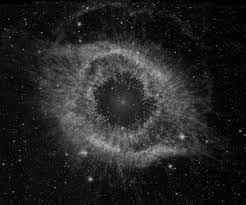
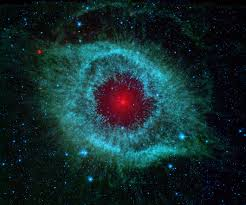
Add Image properties information to Picture Addbasic arithmetics to Picture Add trackball to modify images

diff --git a/src/picture.py b/src/picture.py
@@ -1,9 +1,11 @@
 import numpy as np
 import cv2
+import copy
 
 try:
-    # To read an image
-    img = cv2.imread('../Pictures/sample1.jpeg', 0)
+    # To read an image. The second argument if 0 makes the image Grayscale,
+    # not passing anything keeps it colored
+    img = cv2.imread('../Pictures/sample1.jpeg')
     # This creates a window where the image is later on displayed
     cv2.namedWindow('imagedisplay', cv2.WINDOW_NORMAL)
     cv2.imshow('imagedisplay', img)
@@ -13,5 +15,49 @@ try:
     cv2.destroyAllWindows()
     # Save the image to a new file
     cv2.imwrite('../Pictures/sample1.png', img)
-except Exception:
-    print("Oops something went wrong")
+    # Show Image properties
+    # a) Image Size
+    print("Image size is : " + str(img.size))
+    # b) Image shape (Row, Col, Col/Gray)
+    print("Image shape is :" + str(img.shape))
+    # c) Image Data Type
+    print("Image is encoded in:" + str(img.dtype))
+
+    # Modify a part of the pic
+    # NOTE: the first part is the Rows(Y-Axis)
+    # Second is the Column (X-Axis)
+    test = img[70:132, 90:160]
+    cv2.imwrite('../Pictures/sample1b.png', test)
+
+    # NOTE: BELOW CODE DOESNT WORK WITH GRAYSCALE
+    # Split image to 3 primary colors
+    blue_img = img[:,:,0]
+    green_img = img[:,:,1]
+    red_img = img[:,:,2]
+    #Saving Blue + Green part of the Image. Note, copy is required
+    # to deepcopy the data, else img1 = img will just work as a reference
+    img1 = copy.deepcopy(img)
+    img1[:,:,2] = 0
+    #You can also use b,g,r = cv2.split(img)
+    #Split breaks the Array into each row with one color value and then 
+    # you can use cv2.merge((b,g,r)) . But the above syntax is easier
+    # operation wise and supported by Numpy :)
+    cv2.imwrite('../Pictures/sample1c.png', img1)
+
+    #Performing Arithmetic operations on images
+    # This works because the shape and depth of both the images
+    # is same.For addition, you can use cv2.add(). This function gives
+    # better results sometimes when compared to img + img1
+    cv2.imwrite('../Pictures/sample1d.png', img - img1)
+
+    # Blending 2 images together
+    img2 = cv2.imread('../Pictures/sample1d.png')
+    cv2.imwrite('../Pictures/sample1e.png', cv2.addWeighted(img, 0.5,img2, 0.5, 0))
+    #addWeighted adds 2 images in the following way:
+    # result = x*img1 + (1-x)*img2 + c, where x is the weight of each image and c
+    # is the constant( 0 above )
+
+except Exception as e:
+    print("Oops something went wrong: " + str(e))
+
+

diff --git a/src/trackball.py b/src/trackball.py
@@ -1,0 +1,51 @@
+import numpy
+import cv2
+
+IMAGE_SOURCE = '../Pictures/sample2.jpeg'
+
+
+class Image:
+
+    def __init__(self, src):
+        self.img = cv2.imread(src)
+
+    def nothing(self, callback_val):
+        # The callback_val is the default value
+        # which is the CURRENT TRACKBAR POSITION
+        pass
+
+    def show_image(self):
+        cv2.namedWindow('image')
+        cv2.createTrackbar('R', 'image', 0, 255, self.nothing)
+        cv2.createTrackbar('G', 'image', 0, 255, self.nothing)
+        cv2.createTrackbar('B', 'image', 0, 255, self.nothing)
+        # Trackbar has 5 arguments: Name, Destination Window, Min Val, Max Val
+        # and Callback function which will be executed if the TrackBar changes
+        # Below is a Button based out of trackbar
+        cv2.createTrackbar('On/Off', 'image', 0, 1, self.nothing)
+        print(self.img.shape)
+        while(1):
+            cv2.imshow('image', self.img)
+            if cv2.waitKey(1) & 0xFF == ord('q'):
+                break
+            r = cv2.getTrackbarPos('R', 'image')
+            g = cv2.getTrackbarPos('G', 'image')
+            b = cv2.getTrackbarPos('B', 'image')
+            s = cv2.getTrackbarPos('On/Off', 'image')
+
+            if s:
+                self.img[:] = 0
+            elif b:
+                self.img[:,:,0] = b
+            elif g:
+                self.img[:,:,1] = g
+            elif r:
+                self.img[:,:,2] = r
+                 #Format of Colors in OpenCV
+
+    def close(self): 
+        cv2.destroyAllWindows()
+
+img = Image(IMAGE_SOURCE)
+img.show_image()
+img.close()
